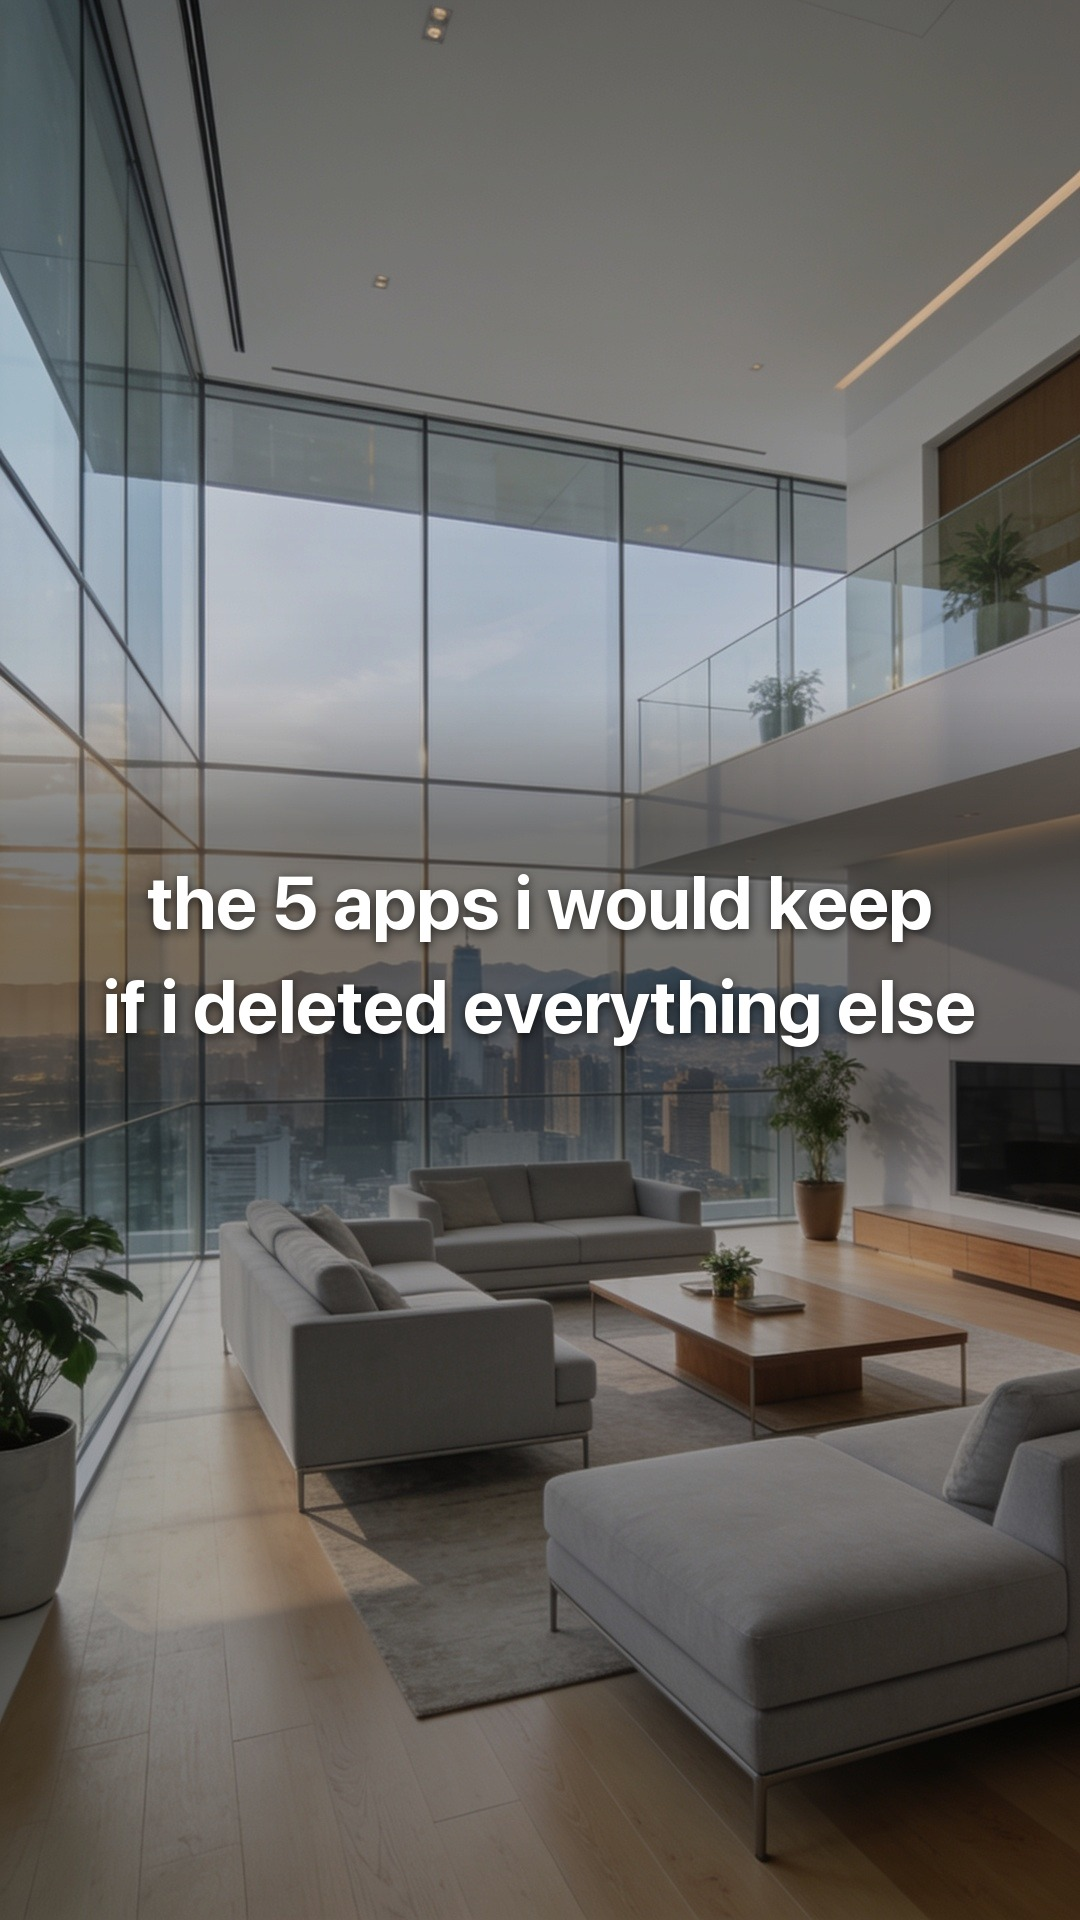
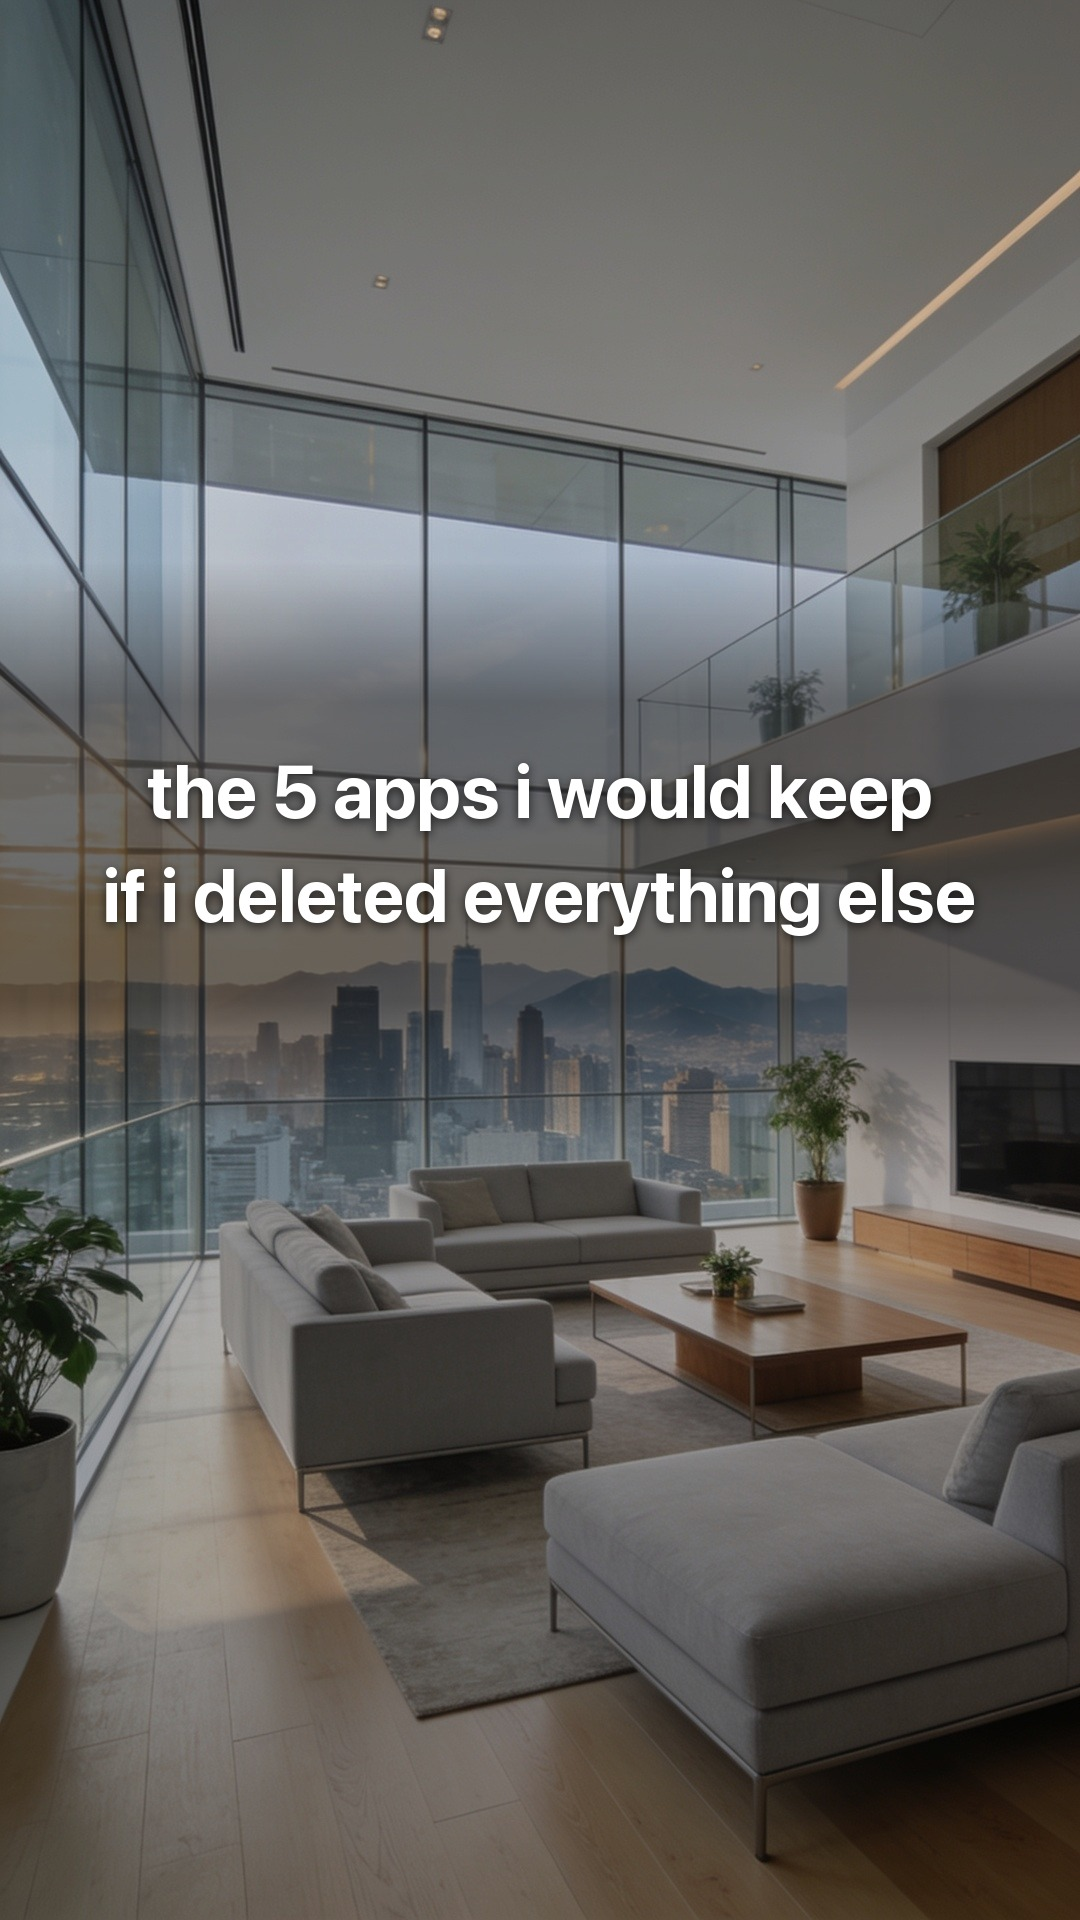
match the published reference exactly: block centre y 849
The reference is the lowercase 4x-productivity render that actually
shipped (9fbd62a), not the current file on disk, which was overwritten by
a later uppercase pass. It measures a 67px glyph height with the block
spanning y 764-935, centre 849.

keep-five now measures y 764-934, centre 849, glyph height 68. Size was
already correct after the previous fix; only the vertical placement moved.

Claude-Session: https://claude.ai/code/session_018WcmYQJRQqBfrRpJzu76Jc

Changed region(s): [[0.0, 0.3125, 1.0, 0.625]]

diff --git a/tools/compose.py b/tools/compose.py
@@ -358,8 +358,8 @@ def _fit(text, variation, start, max_width=930, floor=40, maker=None):
 # that is a legacy of an earlier template, not the target: only the size was
 # ever wrong.
 HOOK_SIZE = 74
-HOOK_BAND = (830, 1110)
-HOOK_Y = 901              # two lines straddle the 960 centre line
+HOOK_BAND = (700, 1000)
+HOOK_Y = 790              # block centres on y 849, matching the published post
 HOOK_PITCH = 104
 HOOK_MAX_W = 936          # 1080 minus the 72px side margins
 
